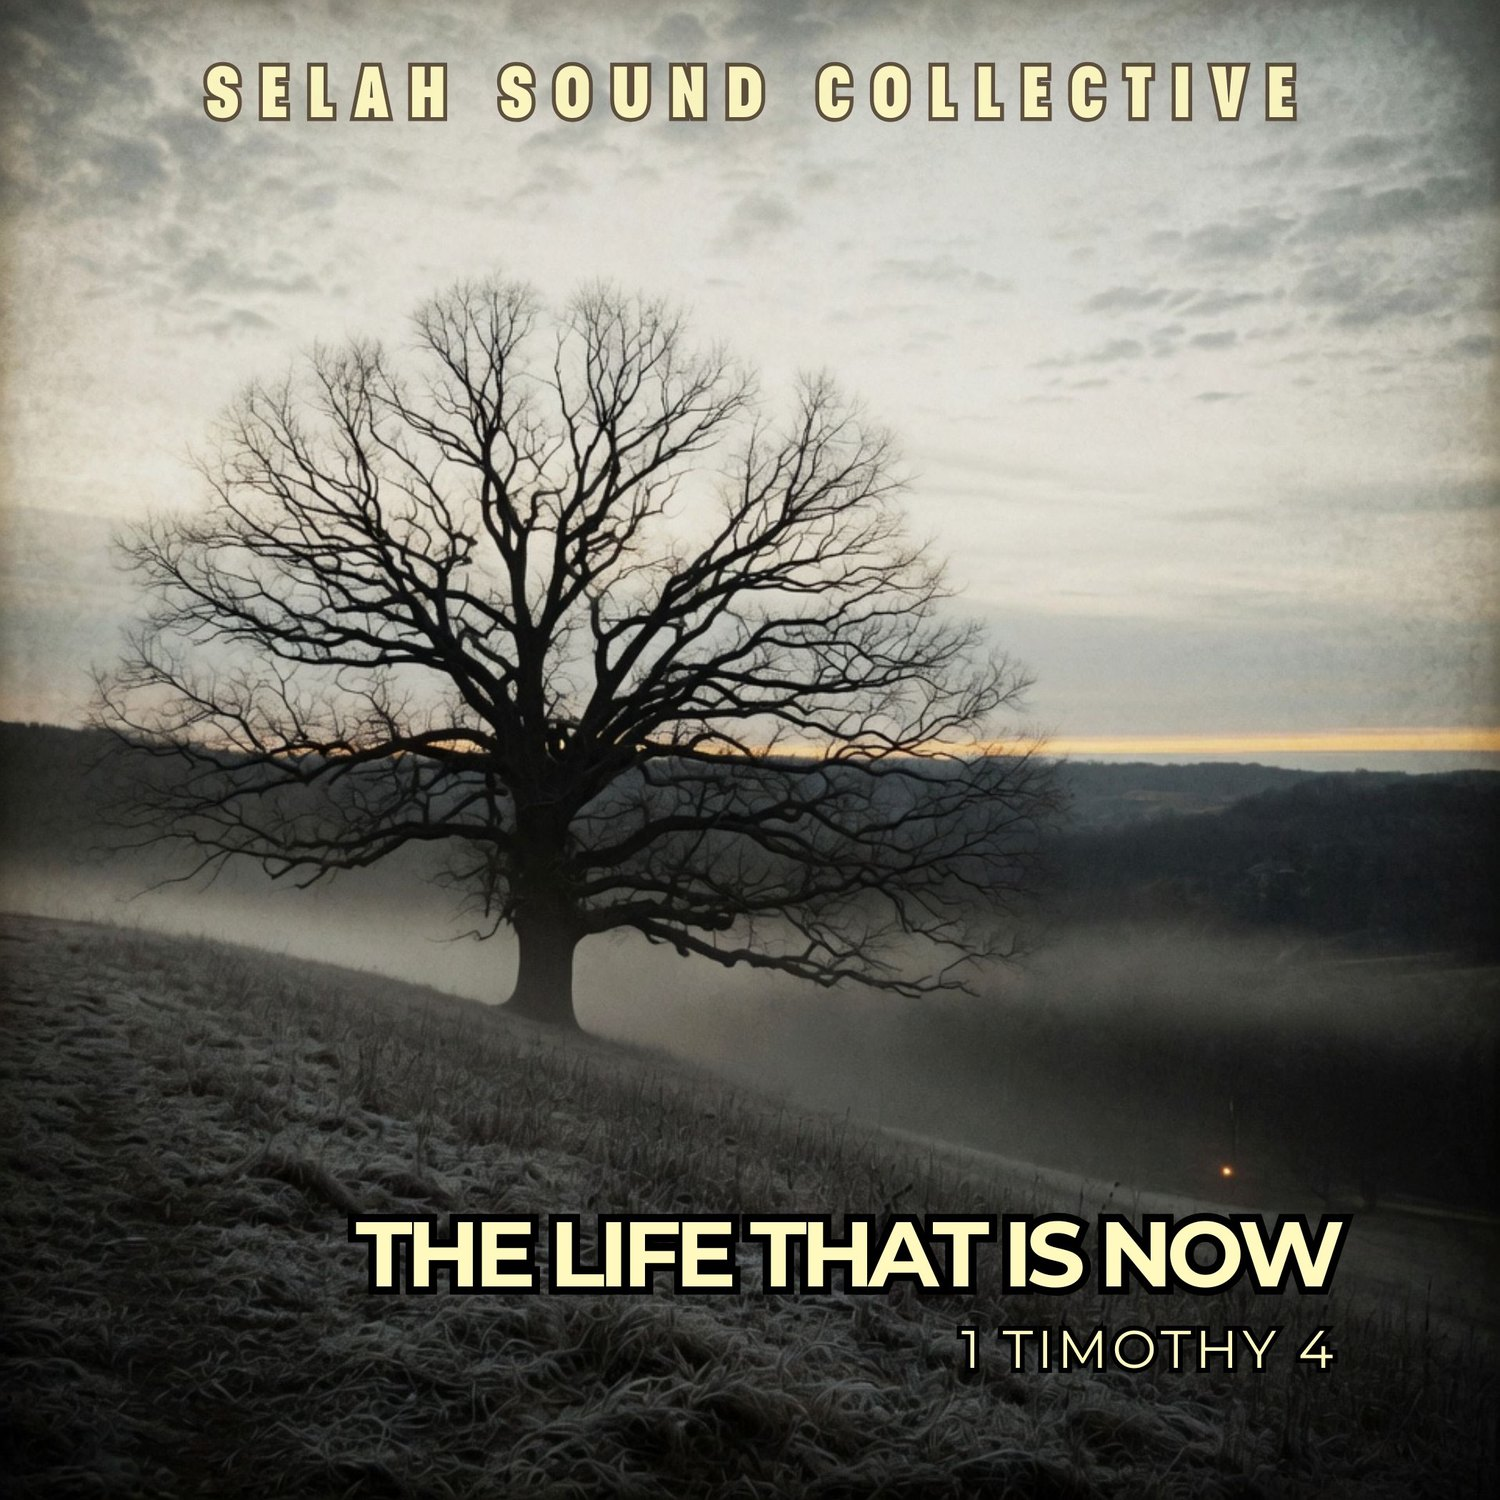
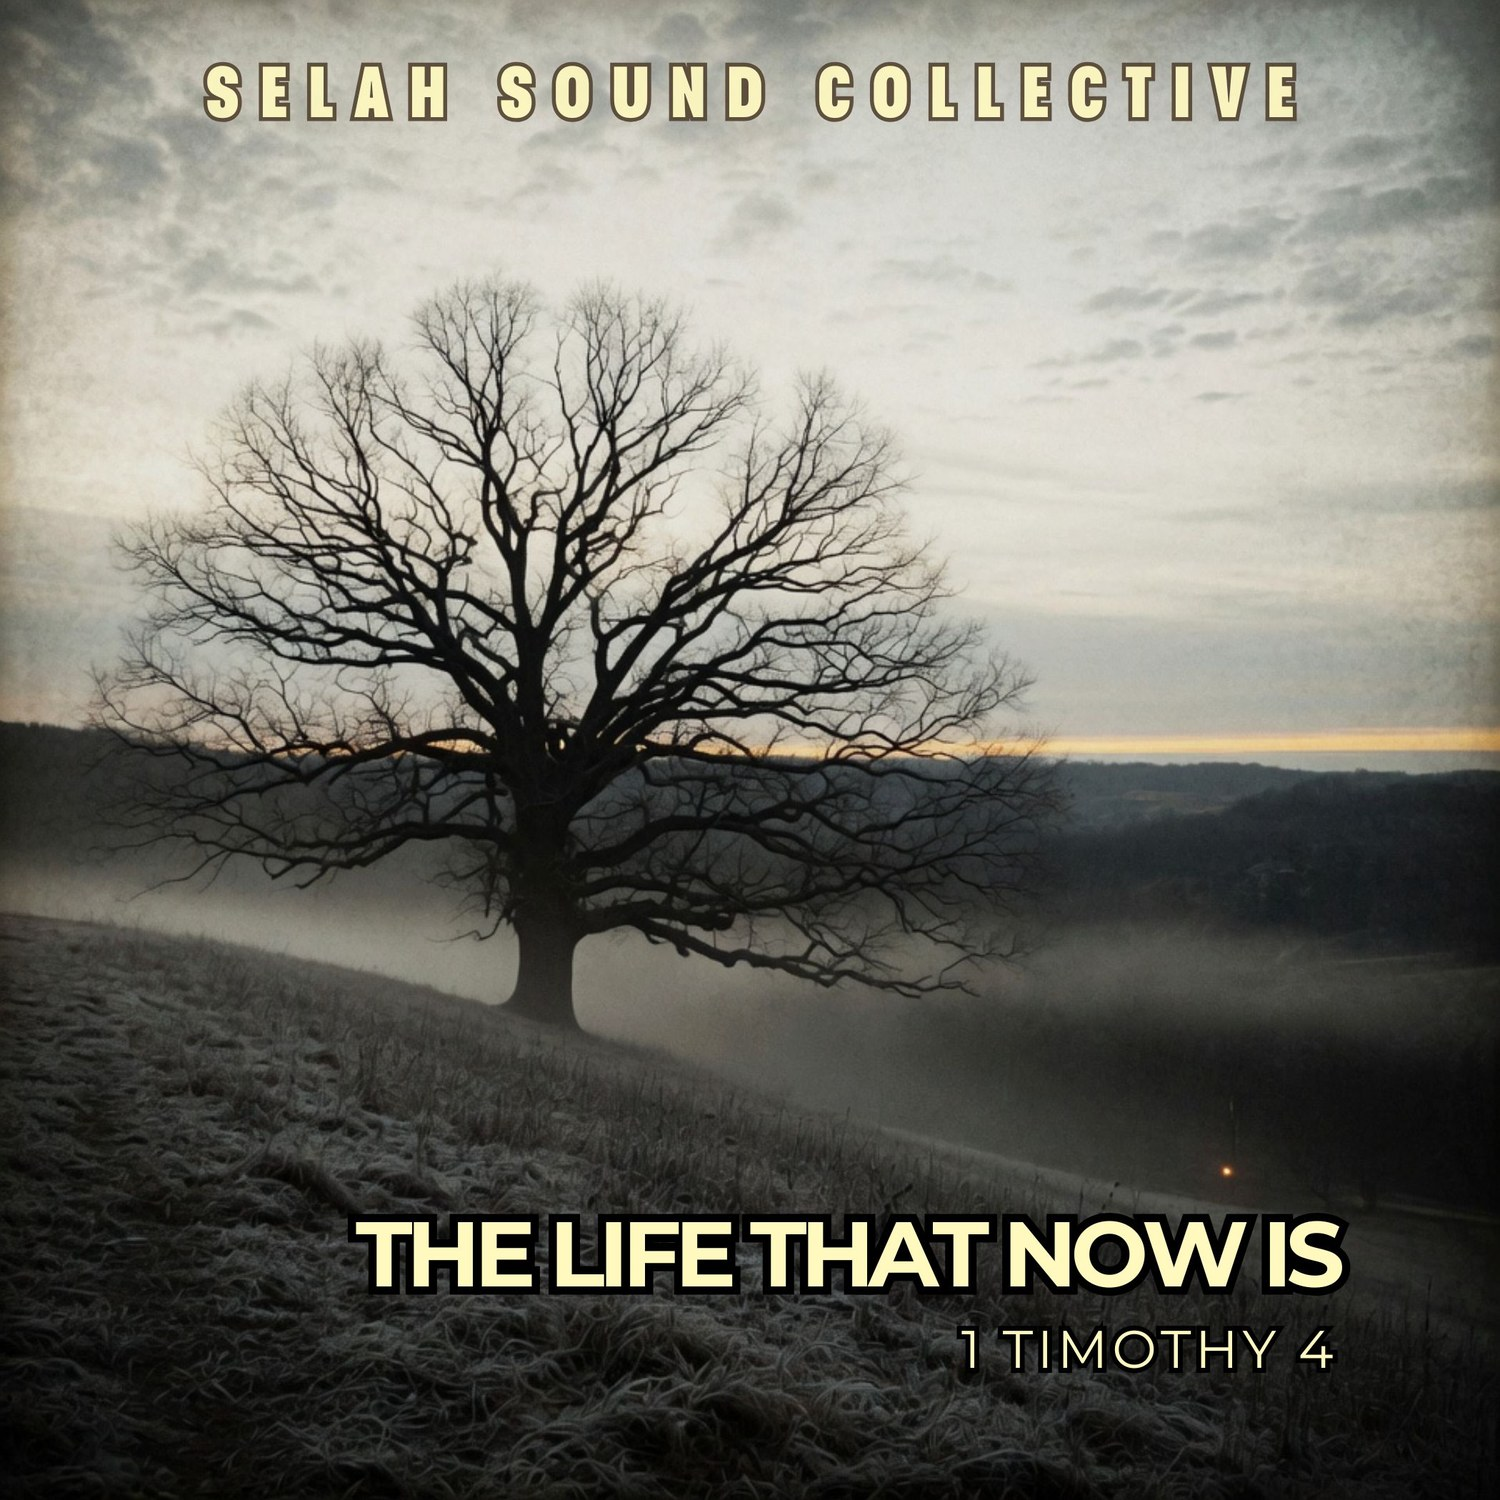
Corrected The Life That Now Is cover

Changed region(s): [[0.6747, 0.7973, 0.92, 0.8587]]

diff --git a/docs/songs/the-life-that-now-is.html b/docs/songs/the-life-that-now-is.html
@@ -1,4 +1,4 @@
-<!DOCTYPE html><html lang="en"><head><meta charset="UTF-8"><meta name="viewport" content="width=device-width, initial-scale=1.0"><title>The Life That Now Is — 1 Timothy 4 | Selah Sound Collective</title><meta name="description" content="The Life That Now Is is a modern Christian song drawn from 1 Timothy 4 by Selah Sound Collective. “that in the latter times some shall depart from the faith.” Listen free with the full lyrics."><meta property="og:type" content="music.song"><meta property="og:title" content="The Life That Now Is — 1 Timothy 4 | Selah Sound Collective"><meta property="og:description" content="The Life That Now Is is a modern Christian song drawn from 1 Timothy 4 by Selah Sound Collective. “that in the latter times some shall depart from the faith.” Listen free with the full lyrics."><meta property="og:image" content="https://selahsoundcollective.com/covers/the-life-that-now-is.jpg"><meta property="og:url" content="https://selahsoundcollective.com/songs/the-life-that-now-is.html"><link rel="canonical" href="https://selahsoundcollective.com/songs/the-life-that-now-is.html"><script async src="https://www.googletagmanager.com/gtag/js?id=G-HXR5J1NDZB"></script><script>window.dataLayer=window.dataLayer||[];function gtag(){dataLayer.push(arguments);}gtag('js',new Date());gtag('config','G-HXR5J1NDZB');</script><meta property="og:site_name" content="Selah Sound Collective"><meta name="robots" content="index, follow, max-image-preview:large, max-snippet:-1"><meta name="twitter:card" content="summary_large_image"><meta name="twitter:title" content="The Life That Now Is — 1 Timothy 4 | Selah Sound Collective"><meta name="twitter:description" content="The Life That Now Is is a modern Christian song drawn from 1 Timothy 4 by Selah Sound Collective. “that in the latter times some shall depart from the faith.” Listen free with the full lyrics."><meta name="twitter:image" content="https://selahsoundcollective.com/covers/the-life-that-now-is.jpg"><link rel="preconnect" href="https://fonts.googleapis.com"><link rel="preconnect" href="https://fonts.gstatic.com" crossorigin><link href="https://fonts.googleapis.com/css2?family=Gloock&family=Lora:ital,wght@0,400;0,500;0,600;1,400;1,500&family=Outfit:wght@300;400;500;600;700&display=swap" rel="stylesheet"><link rel="icon" href="../assets/favicon.ico?v=bc082119" sizes="any"><link rel="icon" type="image/png" sizes="32x32" href="../assets/favicon-32.png?v=b0935294"><link rel="apple-touch-icon" href="../assets/apple-touch-icon.png?v=bc93e928"><link rel="stylesheet" href="../assets/site.css?v=16c8a750"><script type="application/ld+json">{"@context":"https://schema.org","@type":"MusicRecording","name":"The Life That Now Is","byArtist":{"@type":"MusicGroup","name":"Selah Sound Collective","url":"https://selahsoundcollective.com/"},"genre":["Christian","Contemporary Christian Music","Worship"],"inLanguage":"en","url":"https://selahsoundcollective.com/songs/the-life-that-now-is.html","mainEntityOfPage":"https://selahsoundcollective.com/songs/the-life-that-now-is.html","image":"https://selahsoundcollective.com/covers/the-life-that-now-is.jpg","audio":{"@type":"AudioObject","contentUrl":"https://audio.selahsoundcollective.com/the-life-that-now-is.mp3","encodingFormat":"audio/mpeg"},"about":{"@type":"CreativeWork","name":"1 Timothy 4"},"keywords":"1 Timothy 4, The Life That Now Is, modern Christian music, scripture song"}</script><style>:root{--cover:url('../covers/the-life-that-now-is.jpg?v=25170f44')}</style></head><body>
+<!DOCTYPE html><html lang="en"><head><meta charset="UTF-8"><meta name="viewport" content="width=device-width, initial-scale=1.0"><title>The Life That Now Is — 1 Timothy 4 | Selah Sound Collective</title><meta name="description" content="The Life That Now Is is a modern Christian song drawn from 1 Timothy 4 by Selah Sound Collective. “that in the latter times some shall depart from the faith.” Listen free with the full lyrics."><meta property="og:type" content="music.song"><meta property="og:title" content="The Life That Now Is — 1 Timothy 4 | Selah Sound Collective"><meta property="og:description" content="The Life That Now Is is a modern Christian song drawn from 1 Timothy 4 by Selah Sound Collective. “that in the latter times some shall depart from the faith.” Listen free with the full lyrics."><meta property="og:image" content="https://selahsoundcollective.com/covers/the-life-that-now-is.jpg"><meta property="og:url" content="https://selahsoundcollective.com/songs/the-life-that-now-is.html"><link rel="canonical" href="https://selahsoundcollective.com/songs/the-life-that-now-is.html"><script async src="https://www.googletagmanager.com/gtag/js?id=G-HXR5J1NDZB"></script><script>window.dataLayer=window.dataLayer||[];function gtag(){dataLayer.push(arguments);}gtag('js',new Date());gtag('config','G-HXR5J1NDZB');</script><meta property="og:site_name" content="Selah Sound Collective"><meta name="robots" content="index, follow, max-image-preview:large, max-snippet:-1"><meta name="twitter:card" content="summary_large_image"><meta name="twitter:title" content="The Life That Now Is — 1 Timothy 4 | Selah Sound Collective"><meta name="twitter:description" content="The Life That Now Is is a modern Christian song drawn from 1 Timothy 4 by Selah Sound Collective. “that in the latter times some shall depart from the faith.” Listen free with the full lyrics."><meta name="twitter:image" content="https://selahsoundcollective.com/covers/the-life-that-now-is.jpg"><link rel="preconnect" href="https://fonts.googleapis.com"><link rel="preconnect" href="https://fonts.gstatic.com" crossorigin><link href="https://fonts.googleapis.com/css2?family=Gloock&family=Lora:ital,wght@0,400;0,500;0,600;1,400;1,500&family=Outfit:wght@300;400;500;600;700&display=swap" rel="stylesheet"><link rel="icon" href="../assets/favicon.ico?v=bc082119" sizes="any"><link rel="icon" type="image/png" sizes="32x32" href="../assets/favicon-32.png?v=b0935294"><link rel="apple-touch-icon" href="../assets/apple-touch-icon.png?v=bc93e928"><link rel="stylesheet" href="../assets/site.css?v=16c8a750"><script type="application/ld+json">{"@context":"https://schema.org","@type":"MusicRecording","name":"The Life That Now Is","byArtist":{"@type":"MusicGroup","name":"Selah Sound Collective","url":"https://selahsoundcollective.com/"},"genre":["Christian","Contemporary Christian Music","Worship"],"inLanguage":"en","url":"https://selahsoundcollective.com/songs/the-life-that-now-is.html","mainEntityOfPage":"https://selahsoundcollective.com/songs/the-life-that-now-is.html","image":"https://selahsoundcollective.com/covers/the-life-that-now-is.jpg","audio":{"@type":"AudioObject","contentUrl":"https://audio.selahsoundcollective.com/the-life-that-now-is.mp3","encodingFormat":"audio/mpeg"},"about":{"@type":"CreativeWork","name":"1 Timothy 4"},"keywords":"1 Timothy 4, The Life That Now Is, modern Christian music, scripture song"}</script><style>:root{--cover:url('../covers/the-life-that-now-is.jpg?v=60de15af')}</style></head><body>
 <header class="nav"><div class="nav-wrap"><a class="brand" href="../index.html" aria-label="Selah Sound Collective home"><img class="brand-logo" src="../assets/logo-full.png?v=00f23c61" alt="Selah Sound Collective"></a><button class="nav-toggle" id="navToggle" aria-label="Menu">&#9776;</button><nav class="nav-links" id="navLinks"><a href="../index.html" class="active">Music</a><a href="../about.html">About</a><a href="../listen.html">Listen</a><a href="../support.html">Support</a><a href="../contact.html">Contact</a></nav></div></header>
 <header class="hero">
   <div class="hero__bg"></div><div class="hero__veil"></div>